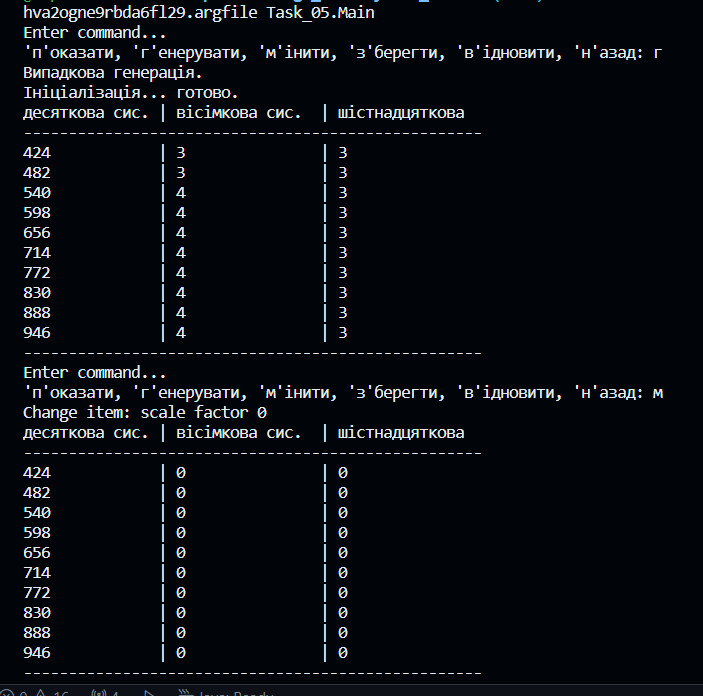
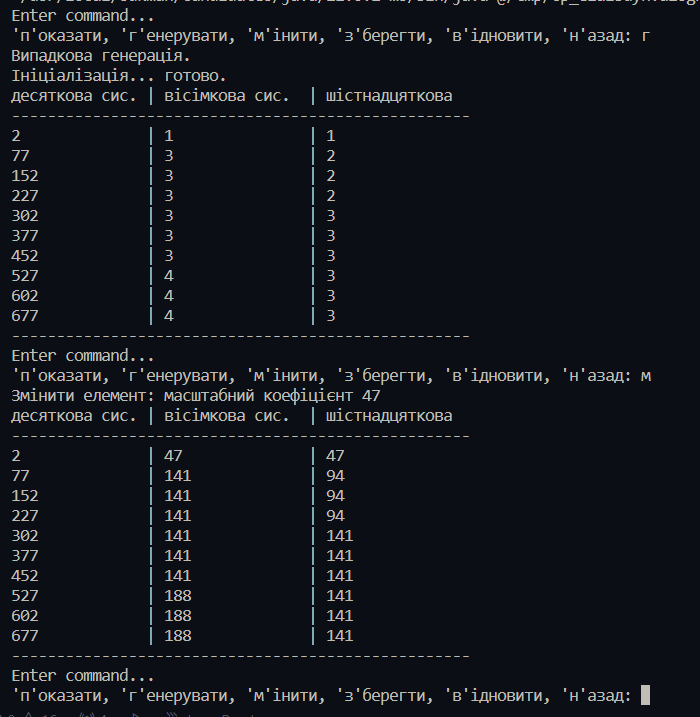
доопрацювання

Changed region(s): [[0.0, 0.0, 0.96, 1.0], [0.81, 0.9353, 0.93, 0.9957], [0.99, 0.0, 1.0, 0.0302]]

diff --git a/Task_0203/ViewResult.java b/Task_0203/ViewResult.java
@@ -1,4 +1,4 @@
-package Task_03;
+package Task_0203;
 
 import java.io.FileInputStream;
 import java.io.FileOutputStream;
@@ -101,35 +101,41 @@ public class ViewResult implements View {
             }
         }
     }
+
     /**
-    * Ініціалізує елементи колекції {@link #items}.
-    *
-    * @param stepdecimalValue крок зміни десяткового значення для наступних елементів
-    */
+     * Ініціалізує елементи колекції {@link #items}.
+     *
+     * @param stepdecimalValue крок зміни десяткового значення для наступних
+     *                         елементів
+     */
     public void init(int stepdecimalValue) {
-        int[] numbers = { 100, 1000, 10000, 100000};
-        int randomIndex = (int)(Math.random() * numbers.length);
-        int decimalLocal = (int)(Math.random() * ((int)(Math.random() * numbers[randomIndex])));
+        int[] numbers = { 100, 1000, 10000, 100000 };
+        int randomIndex = (int) (Math.random() * numbers.length);
+        int decimalLocal = (int) (Math.random() * ((int) (Math.random() * numbers[randomIndex])));
         for (Item2d item : items) {
             item.setDecOctHex(decimalLocal, calculateOct(decimalLocal), calculateHex(decimalLocal));
             decimalLocal += stepdecimalValue;
         }
     }
+
     /**
-    * Реалізує метод {@link View#viewInit()} шляхом виклику методу {@link #init(int)}
-    * з випадковим кроком зміни десяткового значення в межах 100000.
-    */
+     * Реалізує метод {@link View#viewInit()} шляхом виклику методу
+     * {@link #init(int)}
+     * з випадковим кроком зміни десяткового значення в межах 100000.
+     */
     @Override
     public void viewInit() {
-        int[] numbers = { 100, 1000, 10000};
-        int randomIndex = (int)(Math.random() * numbers.length);
-        init((int)(Math.random() * numbers[randomIndex]));
+        int[] numbers = { 100, 1000, 10000 };
+        int randomIndex = (int) (Math.random() * numbers.length);
+        init((int) (Math.random() * numbers[randomIndex]));
     }
+
     /**
-    * Реалізує метод {@link View#viewSave()} для збереження колекції {@link #items} у файл.
-    *
-    * @throws IOException якщо виникає помилка під час збереження у файл
-    */
+     * Реалізує метод {@link View#viewSave()} для збереження колекції {@link #items}
+     * у файл.
+     *
+     * @throws IOException якщо виникає помилка під час збереження у файл
+     */
     @Override
     public void viewSave() throws IOException {
         ObjectOutputStream os = new ObjectOutputStream(new FileOutputStream(FNAME));
@@ -137,11 +143,13 @@ public class ViewResult implements View {
         os.flush();
         os.close();
     }
+
     /**
-    * Реалізує метод {@link View#viewRestore()} для відновлення колекції {@link #items} з файлу.
-    *
-    * @throws Exception якщо виникає помилка під час читання з файлу
-    */
+     * Реалізує метод {@link View#viewRestore()} для відновлення колекції
+     * {@link #items} з файлу.
+     *
+     * @throws Exception якщо виникає помилка під час читання з файлу
+     */
     @SuppressWarnings("unchecked")
     @Override
     public void viewRestore() throws Exception {
@@ -150,24 +158,38 @@ public class ViewResult implements View {
         is.close();
     }
 
+    /**
+     * Реалізація методу {@linkplain View#viewHeader()}
+     */
     @Override
     public void viewHeader() {
         System.out.println("Results:");
     }
 
+    /**
+     * Реалізація методу {@linkplain View#viewBody()}
+     */
     @Override
     public void viewBody() {
         for (Item2d item : items) {
-            System.out.format("(%d; %d; %d) ", item.getDecimalValue(), item.getOctNumber(), item.getOctNumber());
+
+            System.out.format("Десяткове число = %d, кількість цифр у 8-у числі = %d, у 16-у числі = %d\n",
+                    item.getDecimalValue(), item.getOctNumber(), item.getOctNumber());
         }
         System.out.println();
     }
 
+    /**
+     * Реалізація методу {@linkplain View#viewFooter()}
+     */
     @Override
     public void viewFooter() {
         System.out.println("End.");
     }
 
+    /**
+     * Реалізація методу {@linkplain View#viewShow()}
+     */
     @Override
     public void viewShow() {
         viewHeader();

diff --git a/Task_0203/View.java b/Task_0203/View.java
@@ -1,0 +1,34 @@
+package Task_0203;
+
+import java.io.IOException;
+
+/**
+ * Product
+ * (шаблон проектування Factory Method)
+ * Інтерфейс "фабрикованих" об'єктів
+ * Оголошує методи відображення об'єктів
+ * 
+ * @author Софія Жаботинська
+ */
+public interface View {
+    /** Відображає заголовок */
+    public void viewHeader();
+
+    /** Відображає основну частину */
+    public void viewBody();
+
+    /** Відображає закінчення */
+    public void viewFooter();
+
+    /** Відображає об'єкт повністю */
+    public void viewShow();
+
+    /** Виконує ініціалізацію */
+    public void viewInit();
+
+    /** Зберігає дані для подальшого відновлення */
+    public void viewSave() throws IOException;
+
+    /** Відновлює раніше збережені дані */
+    public void viewRestore() throws Exception;
+}

diff --git a/Task_05/ChangeConsoleCommand.java b/Task_05/ChangeConsoleCommand.java
@@ -1,8 +1,8 @@
 package Task_05;
 
-import Task_03.Item2d;
-import Task_03.View;
-import Task_03.ViewResult;
+import Task_0203.Item2d;
+import Task_0203.View;
+import Task_0203.ViewResult;
 
 /**
  * Консольна команда
@@ -55,7 +55,7 @@ public class ChangeConsoleCommand extends ChangeItemCommand implements ConsoleCo
 
     @Override
     public void execute() {
-        System.out.println("Change item: scale factor " + setOffset((int) Math.random() * 100));
+        System.out.println("Змінити елемент: масштабний коефіцієнт " + setOffset((int)(Math.random() * 100)));
         for (Item2d item : ((ViewResult) view).getItems()) {
             super.setItem(item);
             super.execute();

diff --git a/Task_04/Main.java b/Task_04/Main.java
@@ -1,11 +1,11 @@
 package Task_04;
-import Task_03.View;
+import Task_0203.View;
 /**
  * Цей клас `Main` є підкласом `Task_03.Main`.
  * Містить реалізацію статичного методу main()
  */
-public class Main extends Task_03.Main {
-    /** Ініціалізує поле {@linkplain Task_03.Main#view view} */
+public class Main extends Task_0203.Main {
+    /** Ініціалізує поле {@linkplain Task_0203.Main#view view} */
     public Main(View view){
         super(view);
     }

diff --git a/Task_04/ViewTable.java b/Task_04/ViewTable.java
@@ -1,8 +1,9 @@
 package Task_04;
 
 import java.util.Formatter;
-import Task_03.Item2d;
-import Task_03.ViewResult;
+
+import Task_0203.Item2d;
+import Task_0203.ViewResult;
 /**
  * Клас `ViewTable` успадковує клас `ViewResult` та забезпечує функціональність 
  * для відображення таблиці значень у різних системах числення.

diff --git a/Task_04/ViewableTable.java b/Task_04/ViewableTable.java
@@ -1,7 +1,7 @@
 package Task_04;
 
-import Task_03.ViewableResult;
-import Task_03.View;
+import Task_0203.View;
+import Task_0203.ViewableResult;
 /**
  * Клас `ViewableTable` успадковує клас `ViewableResult` і призначений для 
  * надання інтерфейсу `View` для доступу до табличних даних і їх відображення.

diff --git a/test_03/MainTest.java b/test_03/MainTest.java
@@ -2,9 +2,9 @@ package test_03;
 
 import org.junit.jupiter.api.Test;
 
-import Task_03.Calculate;
-import Task_03.Item2d;
-import Task_03.ViewResult;
+import Task_0203.Calculate;
+import Task_0203.Item2d;
+import Task_0203.ViewResult;
 
 import static org.junit.jupiter.api.Assertions.assertEquals; 
 import static org.junit.Assert.assertTrue;

diff --git a/test_04/MainTest.java b/test_04/MainTest.java
@@ -2,9 +2,9 @@ package test_04;
 
 import org.junit.jupiter.api.Test;
 
-import Task_03.Calculate;
-import Task_03.Item2d;
-import Task_03.ViewResult;
+import Task_0203.Calculate;
+import Task_0203.Item2d;
+import Task_0203.ViewResult;
 import Task_04.ViewTable;
 
 import static org.junit.jupiter.api.Assertions.assertEquals; 

diff --git a/Task_06/AvgCommand.java b/Task_06/AvgCommand.java
@@ -1,8 +1,9 @@
 package Task_06;
 
 import java.util.concurrent.TimeUnit;
-import Task_03.Item2d;
-import Task_03.ViewResult;
+
+import Task_0203.Item2d;
+import Task_0203.ViewResult;
 import Task_05.Command;
 /**
  * Клас реалізує команду для обчислення середнього

diff --git a/test_06/MainTest.java b/test_06/MainTest.java
@@ -5,8 +5,9 @@ import java.util.concurrent.TimeUnit;
 import org.junit.AfterClass;
 import org.junit.BeforeClass;
 import org.junit.Test;
+
+import Task_0203.ViewResult;
 import Task_06.*;
-import Task_03.ViewResult;
 
 /**
  * Тестування класів завдання 6

diff --git a/test_05/MaiTest.java b/test_05/MaiTest.java
@@ -2,8 +2,9 @@ package test_05;
 
 import static org.junit.Assert.*;
 import org.junit.Test;
-import Task_03.Item2d;
-import Task_03.ViewResult;
+
+import Task_0203.Item2d;
+import Task_0203.ViewResult;
 import Task_05.ChangeConsoleCommand;
 import Task_05.ChangeItemCommand;
 

diff --git a/Task_06/Main.java b/Task_06/Main.java
@@ -1,9 +1,9 @@
 package Task_06;
 
-import Task_03.View;
 import Task_05.ChangeConsoleCommand;
 import Task_05.GenerateConsoleCommand;
 import Task_05.Menu;
+import Task_0203.View;
 import Task_04.ViewableTable;
 import Task_05.ViewConsoleCommand;
 
